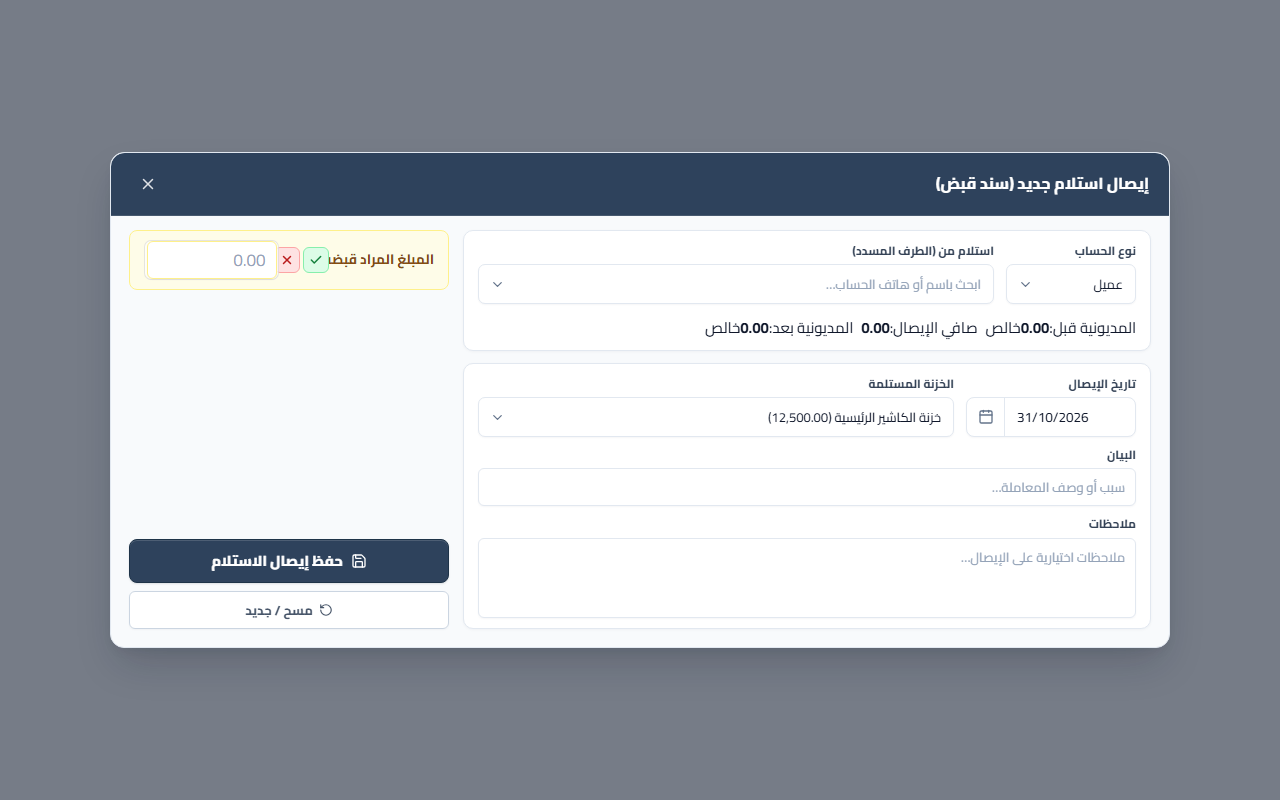
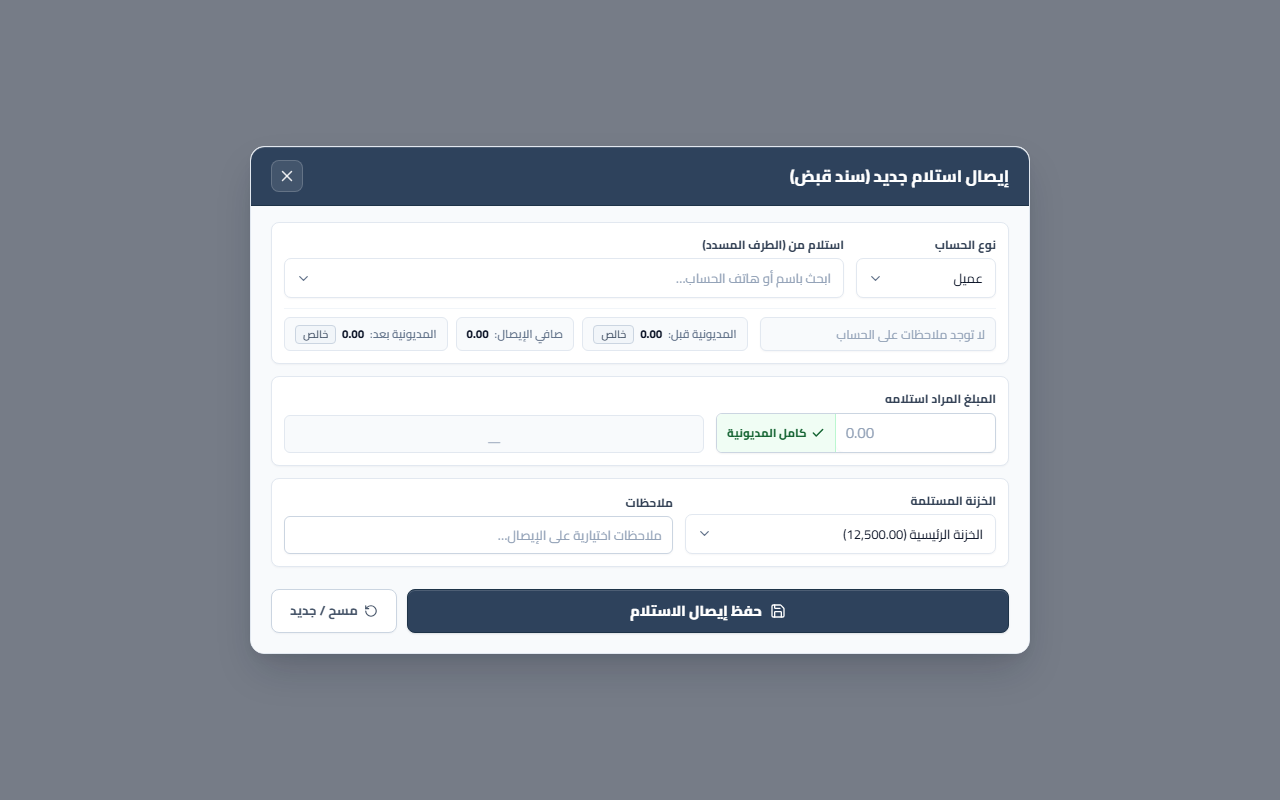
fix(receipts): remove tafqeet label text and set main cashbox as default

Changed region(s): [[0.0625, 0.1562, 0.9375, 0.8438], [0.4062, 0.625, 0.5312, 0.6875], [0.375, 0.4062, 0.4375, 0.4375]]

diff --git a/src/components/ReceiptForm.tsx b/src/components/ReceiptForm.tsx
@@ -1,4 +1,4 @@
-import { useState, type FormEvent } from 'react';
+import { useState, useEffect, type FormEvent } from 'react';
 import { Check, RotateCcw, Save } from 'lucide-react';
 import { supabase } from '../lib/supabase';
 import { money, round2, today, getBalanceStatus } from '../lib/format';
@@ -37,8 +37,35 @@ export default function ReceiptForm({
   const [accountId, setAccountId] = useState(editing?.account_id ?? '');
 
   const activeCashBoxes = cashBoxes.filter((box) => box.is_active || box.id === editing?.cash_box_id);
-  const defaultCashBox = activeCashBoxes.find((b) => b.is_primary) ?? activeCashBoxes[0];
+  const defaultCashBox =
+    activeCashBoxes.find((b) => b.is_primary) ??
+    activeCashBoxes.find((b) => b.name?.trim().includes('الرئيسية')) ??
+    activeCashBoxes[0];
   const [cashBoxId, setCashBoxId] = useState(editing?.cash_box_id ?? defaultCashBox?.id ?? '');
+
+  // ترتيب الخزائن بحيث تتصدر الخزنة الرئيسية القائمة
+  const sortedCashBoxes = [...activeCashBoxes].sort((a, b) => {
+    if (a.is_primary && !b.is_primary) return -1;
+    if (!a.is_primary && b.is_primary) return 1;
+    const aMain = a.name?.includes('الرئيسية');
+    const bMain = b.name?.includes('الرئيسية');
+    if (aMain && !bMain) return -1;
+    if (!aMain && bMain) return 1;
+    return a.name.localeCompare(b.name, 'ar');
+  });
+
+  // تعيين الخزنة الرئيسية تلقائياً عند تحميل الخزائن إذا لم تكن محددة
+  useEffect(() => {
+    if (!cashBoxId && !editing && activeCashBoxes.length > 0) {
+      const primaryBox =
+        activeCashBoxes.find((b) => b.is_primary) ??
+        activeCashBoxes.find((b) => b.name?.trim().includes('الرئيسية')) ??
+        activeCashBoxes[0];
+      if (primaryBox) {
+        setCashBoxId(primaryBox.id);
+      }
+    }
+  }, [activeCashBoxes, cashBoxId, editing]);
 
   // التاريخ يتم حفظه تلقائياً بالتاريخ الحالي دون الحاجة لحقل إدخال بالواجهة
   const date = editing?.receipt_date ?? today();
@@ -118,6 +145,11 @@ export default function ReceiptForm({
     setNotes('');
     if (!editing) {
       setAccountId('');
+      const primaryBox =
+        activeCashBoxes.find((b) => b.is_primary) ??
+        activeCashBoxes.find((b) => b.name?.trim().includes('الرئيسية')) ??
+        activeCashBoxes[0];
+      setCashBoxId(primaryBox?.id ?? '');
     }
     toast.info('تم تفريغ الحقول للبدء من جديد');
   }
@@ -282,8 +314,7 @@ export default function ReceiptForm({
             </label>
           </div>
 
-          <div className="field-tafqeet-card">
-            <span className="tafqeet-label">تفقيط المبلغ:</span>
+          <div className="field-tafqeet-card" title={tafqeetText || 'المبلغ بالحروف'}>
             <span className={`tafqeet-text ${tafqeetText ? 'has-value' : 'empty'}`}>
               {tafqeetText || '—'}
             </span>
@@ -300,7 +331,7 @@ export default function ReceiptForm({
             <span>الخزنة {isIn ? 'المستلمة' : 'المنصرف منها'}</span>
             <SearchableSelect
               value={cashBoxId}
-              options={activeCashBoxes.map((box) => ({
+              options={sortedCashBoxes.map((box) => ({
                 value: box.id,
                 label: `${box.name} (${money(box.balance)})`,
               }))}

diff --git a/src/test/components/ReceiptForm.test.tsx b/src/test/components/ReceiptForm.test.tsx
@@ -1,0 +1,98 @@
+import { describe, it, expect, vi } from 'vitest';
+import { render, screen, fireEvent } from '@testing-library/react';
+import ReceiptForm from '../../components/ReceiptForm';
+
+vi.mock('../../components/Toast', () => ({
+  toast: {
+    success: vi.fn(),
+    error: vi.fn(),
+    warning: vi.fn(),
+    info: vi.fn(),
+  },
+}));
+
+vi.mock('../../lib/supabase', () => ({
+  supabase: {
+    rpc: vi.fn().mockResolvedValue({ data: null, error: null }),
+  },
+}));
+
+describe('ReceiptForm - نموذج إيصال الاستلام', () => {
+  const mockAccounts = [
+    {
+      id: 'acc-1',
+      name: 'عميل تجريبي',
+      kind: 'customer',
+      balance: 500,
+      opening_balance: 0,
+      is_active: true,
+      notes: null,
+      serial_number: 1,
+      phone: '01012345678',
+      address: 'القاهرة',
+    },
+  ] as any;
+
+  const mockCashBoxes = [
+    {
+      id: 'cb-branch',
+      name: 'خزنة الفرع 2',
+      is_primary: false,
+      is_active: true,
+      balance: 1000,
+      opening_balance: 0,
+      serial_number: 2,
+      notes: null,
+    },
+    {
+      id: 'cb-main',
+      name: 'الخزنة الرئيسية',
+      is_primary: true,
+      is_active: true,
+      balance: 5000,
+      opening_balance: 0,
+      serial_number: 1,
+      notes: null,
+    },
+  ] as any;
+
+  it('لا يحتوي على كلمة "تفقيط المبلغ:" ويعرض تفقيط المبلغ بالعربية عند إدخال قيمة', () => {
+    render(
+      <ReceiptForm
+        direction="in"
+        accounts={mockAccounts}
+        cashBoxes={mockCashBoxes}
+        editing={null}
+        onSaved={vi.fn()}
+        onCancel={vi.fn()}
+      />
+    );
+
+    // التحقق من حذف كلمة تفقيط المبلغ:
+    expect(screen.queryByText('تفقيط المبلغ:')).toBeNull();
+    expect(screen.queryByText('تفقيط المبلغ')).toBeNull();
+
+    // إدخال مبلغ 1500
+    const amountInput = screen.getByLabelText('مبلغ الإيصال');
+    fireEvent.change(amountInput, { target: { value: '1500' } });
+
+    // التحقق من ظهور نص التفقيط بالعربية مباشرة
+    expect(screen.getByText(/ألف وخمسمائة/)).toBeInTheDocument();
+  });
+
+  it('يحدد "الخزنة الرئيسية" كخيار افتراضي حتى وإن لم تكن الأولى في مصفوفة الخزائن', () => {
+    render(
+      <ReceiptForm
+        direction="in"
+        accounts={mockAccounts}
+        cashBoxes={mockCashBoxes}
+        editing={null}
+        onSaved={vi.fn()}
+        onCancel={vi.fn()}
+      />
+    );
+
+    // الخزنة الرئيسية يجب أن تكون هي المحددة افتراضياً
+    expect(screen.getByDisplayValue(/الخزنة الرئيسية/)).toBeInTheDocument();
+  });
+});

diff --git a/src/pages/PreviewReceipt.tsx b/src/pages/PreviewReceipt.tsx
@@ -39,9 +39,11 @@ export default function PreviewReceipt() {
     },
   ];
 
+  const isNew = new URLSearchParams(window.location.search).get('mode') !== 'edit';
+
   const mockCashBoxes: CashBoxRow[] = [
-    { id: 'cb-1', serial_number: 1, name: 'خزنة الكاشير الرئيسية', balance: 12500, opening_balance: 5000, notes: null, is_active: true, is_primary: true },
-    { id: 'cb-2', serial_number: 2, name: 'خزنة الإدارة العامة', balance: 45000, opening_balance: 10000, notes: null, is_active: true, is_primary: false },
+    { id: 'cb-2', serial_number: 2, name: 'خزنة الفرع 2', balance: 45000, opening_balance: 10000, notes: null, is_active: true, is_primary: false },
+    { id: 'cb-1', serial_number: 1, name: 'الخزنة الرئيسية', balance: 12500, opening_balance: 5000, notes: null, is_active: true, is_primary: true },
   ];
 
   const mockEditing: any = {
@@ -80,7 +82,7 @@ export default function PreviewReceipt() {
             direction="in"
             accounts={mockAccounts}
             cashBoxes={mockCashBoxes}
-            editing={mockEditing}
+            editing={isNew ? null : mockEditing}
             onSaved={(msg) => alert(msg)}
             onCancel={() => setOpen(false)}
           />

diff --git a/src/pages/Receipts.tsx b/src/pages/Receipts.tsx
@@ -217,7 +217,10 @@ export default function Receipts() {
       setTransferRows((transfersRes.data ?? []) as CashBoxTransferRow[]);
 
       if (!cashBoxId && boxes.length > 0) {
-        const defaultBox = boxes.find((box) => box.is_primary && box.is_active) ?? boxes.find((b) => b.is_active);
+        const defaultBox =
+          boxes.find((box) => box.is_primary && box.is_active) ??
+          boxes.find((box) => box.name?.includes('الرئيسية') && box.is_active) ??
+          boxes.find((b) => b.is_active);
         if (defaultBox) setCashBoxId(defaultBox.id);
       }
 
@@ -240,7 +243,10 @@ export default function Receipts() {
 
   function resetForm() {
     setEditing(null);
-    const defaultBox = cashBoxes.find((box) => box.is_primary && box.is_active) ?? cashBoxes.find((b) => b.is_active);
+    const defaultBox =
+      cashBoxes.find((box) => box.is_primary && box.is_active) ??
+      cashBoxes.find((box) => box.name?.includes('الرئيسية') && box.is_active) ??
+      cashBoxes.find((b) => b.is_active);
     setCashBoxId(defaultBox?.id ?? '');
     setError('');
   }

diff --git a/take-screenshots.js b/take-screenshots.js
@@ -87,10 +87,10 @@ async function main() {
   if (!fs.existsSync(outDir)) fs.mkdirSync(outDir, { recursive: true });
 
   const tasks = [
-    { name: 'sales-invoice-no-scroll-1280px.png', w: 1280, h: 800, url: `${phaseUrl}?modal=invoice` },
-    { name: 'sales-invoice-no-scroll-1920px.png', w: 1920, h: 1080, url: `${phaseUrl}?modal=invoice` },
     { name: 'receipt-cockpit-1280px.png', w: 1280, h: 800, url: receiptUrl },
     { name: 'receipt-cockpit-1920px.png', w: 1920, h: 1080, url: receiptUrl },
+    { name: 'receipt-updated-1280px.png', w: 1280, h: 800, url: receiptUrl },
+    { name: 'receipt-updated-1920px.png', w: 1920, h: 1080, url: receiptUrl },
   ];
 
   const artifactDir = path.resolve(
